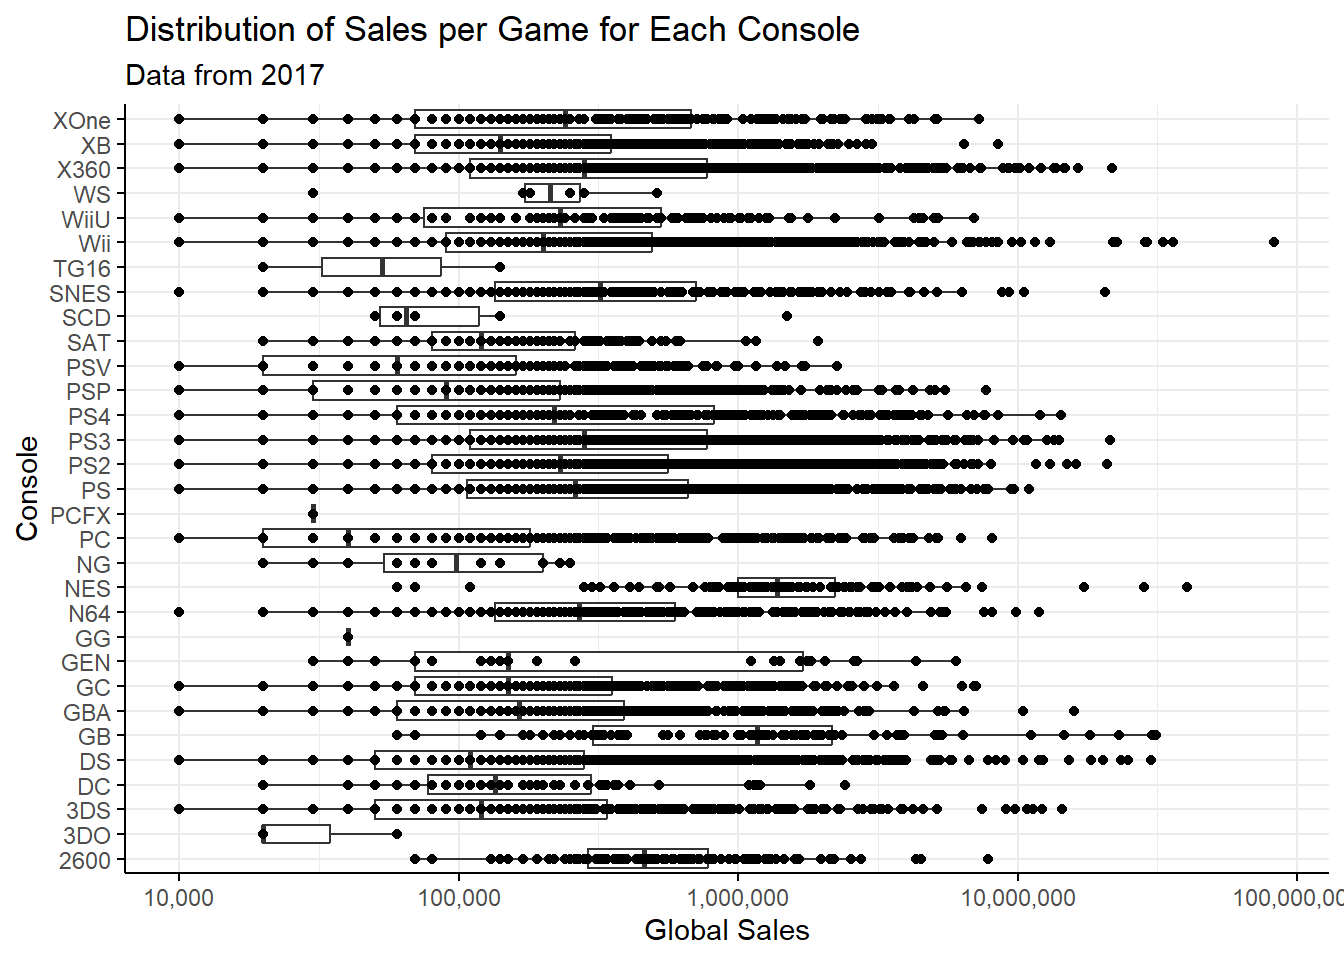
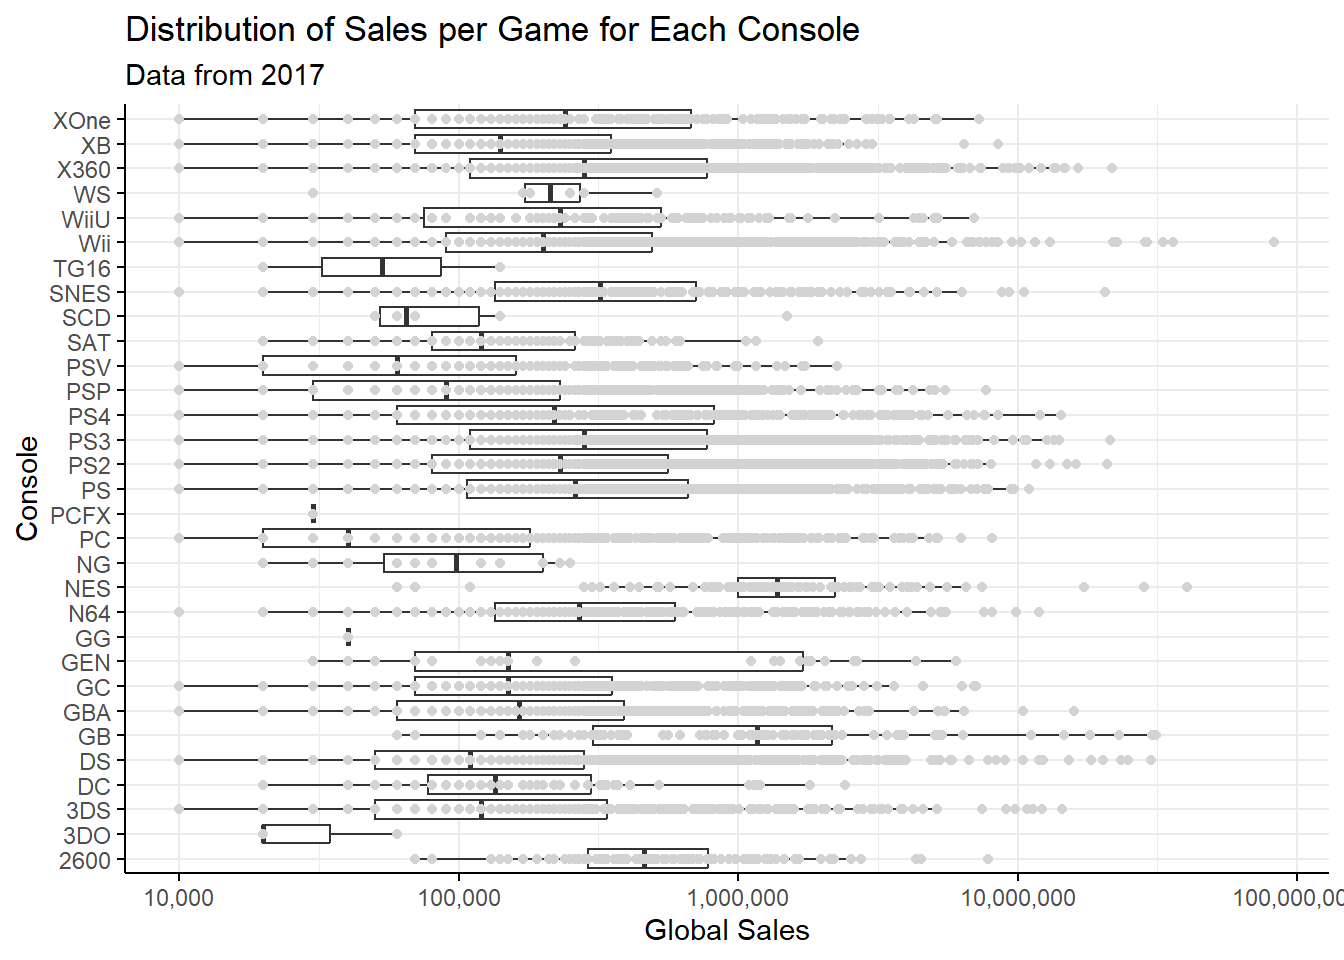
Changed based off of feedback

diff --git a/videogameconsole.html b/videogameconsole.html
@@ -121,7 +121,7 @@ pre > code.sourceCode > span > a:first-child::before { text-decoration: underlin
 <span id="cb2-10"><a href="#cb2-10" aria-hidden="true" tabindex="-1"></a>            <span class="at">hjust =</span> <span class="sc">-</span><span class="fl">0.025</span>,</span>
 <span id="cb2-11"><a href="#cb2-11" aria-hidden="true" tabindex="-1"></a>            <span class="at">size =</span> <span class="dv">3</span>) <span class="sc">+</span></span>
 <span id="cb2-12"><a href="#cb2-12" aria-hidden="true" tabindex="-1"></a>  <span class="fu">labs</span>(</span>
-<span id="cb2-13"><a href="#cb2-13" aria-hidden="true" tabindex="-1"></a>    <span class="at">title =</span> <span class="st">"Best Selling Consoles"</span></span>
+<span id="cb2-13"><a href="#cb2-13" aria-hidden="true" tabindex="-1"></a>    <span class="at">title =</span> <span class="st">"Best Selling Consoles through May 2025"</span></span>
 <span id="cb2-14"><a href="#cb2-14" aria-hidden="true" tabindex="-1"></a>  ) <span class="sc">+</span></span>
 <span id="cb2-15"><a href="#cb2-15" aria-hidden="true" tabindex="-1"></a>  <span class="fu">theme_minimal</span>() <span class="sc">+</span></span>
 <span id="cb2-16"><a href="#cb2-16" aria-hidden="true" tabindex="-1"></a>  <span class="fu">theme</span>(</span>
@@ -140,7 +140,7 @@ pre > code.sourceCode > span > a:first-child::before { text-decoration: underlin
 </div>
 </div>
 </div>
-<p>As you can see, this is graph is showing the best 25 selling consoles of all time. I believe that this is a good cut of because both the last two consoles the Playstation Vita, and the Nintendo Wii U were considered massive failures by those two companies. As you can see, the Playstation 2 is the best selling console of all time selling 160.01 million units. With the Nintendo DS in second place at 154.02 million units and the Nintendo Switch in third place at 150.86 million units which is still currently being sold even though the Nintendo Switch 2 just came out. Now, if this was based on just consoles sold the best console would be the Playstation 2 but there are a couple other factors to this.</p>
+<p>As you can see, this is graph is showing the best 25 selling consoles of all time. I believe that this is a good cut off because both the last two consoles the Playstation Vita, and the Nintendo Wii U were considered massive failures by those two companies. As you can see, the Playstation 2 is the best selling console of all time selling 160.01 million units. With the Nintendo DS in second place at 154.02 million units and the Nintendo Switch in third place at 150.86 million units which is still currently being sold even though the Nintendo Switch 2 just came out. Now, if this was based on just consoles sold the best console would be the Playstation 2 but there are a couple other factors to this.</p>
 </section>
 <section id="software-sales" class="level1">
 <h1>Software Sales</h1>
@@ -154,7 +154,7 @@ pre > code.sourceCode > span > a:first-child::before { text-decoration: underlin
 <span id="cb3-3"><a href="#cb3-3" aria-hidden="true" tabindex="-1"></a>softwaresales <span class="sc">%&gt;%</span> </span>
 <span id="cb3-4"><a href="#cb3-4" aria-hidden="true" tabindex="-1"></a>  <span class="fu">ggplot</span>(<span class="fu">aes</span>(<span class="at">x =</span> Global_Sales, <span class="at">y =</span> Platform)) <span class="sc">+</span></span>
 <span id="cb3-5"><a href="#cb3-5" aria-hidden="true" tabindex="-1"></a>  <span class="fu">geom_boxplot</span>() <span class="sc">+</span></span>
-<span id="cb3-6"><a href="#cb3-6" aria-hidden="true" tabindex="-1"></a>  <span class="fu">geom_point</span>() <span class="sc">+</span></span>
+<span id="cb3-6"><a href="#cb3-6" aria-hidden="true" tabindex="-1"></a>  <span class="fu">geom_point</span>(<span class="at">color =</span> <span class="st">"lightgray"</span>) <span class="sc">+</span></span>
 <span id="cb3-7"><a href="#cb3-7" aria-hidden="true" tabindex="-1"></a>  <span class="fu">scale_x_log10</span>(<span class="at">breaks=</span><span class="fu">c</span>(<span class="fl">1e-02</span>, <span class="fl">1e-01</span>, <span class="fl">1e+00</span>, <span class="fl">1e+01</span>, <span class="fl">1e+02</span>), <span class="at">labels =</span> <span class="fu">c</span>(<span class="st">"10,000"</span>, <span class="st">"100,000"</span>, <span class="st">"1,000,000"</span>, <span class="st">"10,000,000"</span>, <span class="st">"100,000,000"</span>)) <span class="sc">+</span></span>
 <span id="cb3-8"><a href="#cb3-8" aria-hidden="true" tabindex="-1"></a>  <span class="fu">theme_minimal</span>() <span class="sc">+</span></span>
 <span id="cb3-9"><a href="#cb3-9" aria-hidden="true" tabindex="-1"></a>  <span class="fu">theme</span>(</span>
@@ -209,7 +209,7 @@ pre > code.sourceCode > span > a:first-child::before { text-decoration: underlin
 <span id="cb4-26"><a href="#cb4-26" aria-hidden="true" tabindex="-1"></a>  <span class="fu">scale_color_manual</span>(<span class="at">values =</span> <span class="fu">c</span>(<span class="st">"#006FCD"</span>, <span class="st">"#E60012"</span>)) <span class="sc">+</span></span>
 <span id="cb4-27"><a href="#cb4-27" aria-hidden="true" tabindex="-1"></a>  <span class="fu">labs</span>(</span>
 <span id="cb4-28"><a href="#cb4-28" aria-hidden="true" tabindex="-1"></a>    <span class="at">x =</span> <span class="st">"Fiscal Year"</span>,</span>
-<span id="cb4-29"><a href="#cb4-29" aria-hidden="true" tabindex="-1"></a>    <span class="at">y =</span> <span class="st">"Sales in millions"</span>,</span>
+<span id="cb4-29"><a href="#cb4-29" aria-hidden="true" tabindex="-1"></a>    <span class="at">y =</span> <span class="st">"Sales in millions of copies"</span>,</span>
 <span id="cb4-30"><a href="#cb4-30" aria-hidden="true" tabindex="-1"></a>    <span class="at">title =</span> <span class="st">"Switch and Playstation (PS4 and PS5) Software Sales for Each Fiscal Year"</span></span>
 <span id="cb4-31"><a href="#cb4-31" aria-hidden="true" tabindex="-1"></a>  ) <span class="sc">+</span></span>
 <span id="cb4-32"><a href="#cb4-32" aria-hidden="true" tabindex="-1"></a>  <span class="fu">theme_minimal</span>()</span></code><button title="Copy to Clipboard" class="code-copy-button"><i class="bi"></i></button></pre></div>
@@ -318,15 +318,16 @@ pre > code.sourceCode > span > a:first-child::before { text-decoration: underlin
 <span id="cb6-53"><a href="#cb6-53" aria-hidden="true" tabindex="-1"></a>            <span class="at">hjust =</span> <span class="dv">0</span>,</span>
 <span id="cb6-54"><a href="#cb6-54" aria-hidden="true" tabindex="-1"></a>            <span class="at">size =</span> <span class="dv">4</span>) <span class="sc">+</span></span>
 <span id="cb6-55"><a href="#cb6-55" aria-hidden="true" tabindex="-1"></a>  <span class="fu">labs</span>(</span>
-<span id="cb6-56"><a href="#cb6-56" aria-hidden="true" tabindex="-1"></a>    <span class="at">title =</span> <span class="st">"Number of Top 20 Rated on Metacritic Games For Each Console"</span></span>
-<span id="cb6-57"><a href="#cb6-57" aria-hidden="true" tabindex="-1"></a>  ) <span class="sc">+</span></span>
-<span id="cb6-58"><a href="#cb6-58" aria-hidden="true" tabindex="-1"></a>  <span class="fu">theme_minimal</span>() <span class="sc">+</span></span>
-<span id="cb6-59"><a href="#cb6-59" aria-hidden="true" tabindex="-1"></a>  <span class="fu">theme</span>(</span>
-<span id="cb6-60"><a href="#cb6-60" aria-hidden="true" tabindex="-1"></a>    <span class="at">axis.title =</span> <span class="fu">element_blank</span>(),</span>
-<span id="cb6-61"><a href="#cb6-61" aria-hidden="true" tabindex="-1"></a>    <span class="at">panel.grid =</span> <span class="fu">element_blank</span>(),</span>
-<span id="cb6-62"><a href="#cb6-62" aria-hidden="true" tabindex="-1"></a>    <span class="at">axis.text.x =</span> <span class="fu">element_blank</span>(),</span>
-<span id="cb6-63"><a href="#cb6-63" aria-hidden="true" tabindex="-1"></a>    <span class="at">axis.text.y =</span> <span class="fu">element_text</span>(<span class="at">margin =</span> <span class="fu">margin</span>(<span class="at">r=</span><span class="sc">-</span><span class="fl">12.5</span>), <span class="at">hjust =</span> <span class="dv">1</span>)</span>
-<span id="cb6-64"><a href="#cb6-64" aria-hidden="true" tabindex="-1"></a>  )</span></code><button title="Copy to Clipboard" class="code-copy-button"><i class="bi"></i></button></pre></div>
+<span id="cb6-56"><a href="#cb6-56" aria-hidden="true" tabindex="-1"></a>    <span class="at">title =</span> <span class="st">"Number of Top 20 Rated on Metacritic Games For Each Console"</span>,</span>
+<span id="cb6-57"><a href="#cb6-57" aria-hidden="true" tabindex="-1"></a>    <span class="at">caption =</span> <span class="st">"Some games are cross-platform"</span></span>
+<span id="cb6-58"><a href="#cb6-58" aria-hidden="true" tabindex="-1"></a>  ) <span class="sc">+</span></span>
+<span id="cb6-59"><a href="#cb6-59" aria-hidden="true" tabindex="-1"></a>  <span class="fu">theme_minimal</span>() <span class="sc">+</span></span>
+<span id="cb6-60"><a href="#cb6-60" aria-hidden="true" tabindex="-1"></a>  <span class="fu">theme</span>(</span>
+<span id="cb6-61"><a href="#cb6-61" aria-hidden="true" tabindex="-1"></a>    <span class="at">axis.title =</span> <span class="fu">element_blank</span>(),</span>
+<span id="cb6-62"><a href="#cb6-62" aria-hidden="true" tabindex="-1"></a>    <span class="at">panel.grid =</span> <span class="fu">element_blank</span>(),</span>
+<span id="cb6-63"><a href="#cb6-63" aria-hidden="true" tabindex="-1"></a>    <span class="at">axis.text.x =</span> <span class="fu">element_blank</span>(),</span>
+<span id="cb6-64"><a href="#cb6-64" aria-hidden="true" tabindex="-1"></a>    <span class="at">axis.text.y =</span> <span class="fu">element_text</span>(<span class="at">margin =</span> <span class="fu">margin</span>(<span class="at">r=</span><span class="sc">-</span><span class="fl">12.5</span>), <span class="at">hjust =</span> <span class="dv">1</span>)</span>
+<span id="cb6-65"><a href="#cb6-65" aria-hidden="true" tabindex="-1"></a>  )</span></code><button title="Copy to Clipboard" class="code-copy-button"><i class="bi"></i></button></pre></div>
 <div class="cell-output-display">
 <div>
 <figure class="figure">

diff --git a/videogameconsole.html.md b/videogameconsole.html.md
@@ -42,7 +42,7 @@ consolesales %>%
             hjust = -0.025,
             size = 3) +
   labs(
-    title = "Best Selling Consoles"
+    title = "Best Selling Consoles through May 2025"
   ) +
   theme_minimal() +
   theme(
@@ -62,7 +62,7 @@ consolesales %>%
 
 
 
-As you can see, this is graph is showing the best 25 selling consoles of all time. I believe that this is a good cut of because both the last two consoles the Playstation Vita, and the Nintendo Wii U were considered massive failures by those two companies. As you can see, the Playstation 2 is the best selling console of all time selling 160.01 million units. With the Nintendo DS in second place at 154.02 million units and the Nintendo Switch in third place at 150.86 million units which is still currently being sold even though the Nintendo Switch 2 just came out. Now, if this was based on just consoles sold the best console would be the Playstation 2 but there are a couple other factors to this.
+As you can see, this is graph is showing the best 25 selling consoles of all time. I believe that this is a good cut off   because both the last two consoles the Playstation Vita, and the Nintendo Wii U were considered massive failures by those two companies. As you can see, the Playstation 2 is the best selling console of all time selling 160.01 million units. With the Nintendo DS in second place at 154.02 million units and the Nintendo Switch in third place at 150.86 million units which is still currently being sold even though the Nintendo Switch 2 just came out. Now, if this was based on just consoles sold the best console would be the Playstation 2 but there are a couple other factors to this.
 
 # Software Sales
 
@@ -82,7 +82,7 @@ softwaresales <- read_csv("data/vgsales.csv")
 softwaresales %>% 
   ggplot(aes(x = Global_Sales, y = Platform)) +
   geom_boxplot() +
-  geom_point() +
+  geom_point(color = "lightgray") +
   scale_x_log10(breaks=c(1e-02, 1e-01, 1e+00, 1e+01, 1e+02), labels = c("10,000", "100,000", "1,000,000", "10,000,000", "100,000,000")) +
   theme_minimal() +
   theme(
@@ -143,7 +143,7 @@ currentsoftware %>%
   scale_color_manual(values = c("#006FCD", "#E60012")) +
   labs(
     x = "Fiscal Year",
-    y = "Sales in millions",
+    y = "Sales in millions of copies",
     title = "Switch and Playstation (PS4 and PS5) Software Sales for Each Fiscal Year"
   ) +
   theme_minimal()
@@ -263,7 +263,8 @@ consoletopratedgames %>%
             hjust = 0,
             size = 4) +
   labs(
-    title = "Number of Top 20 Rated on Metacritic Games For Each Console"
+    title = "Number of Top 20 Rated on Metacritic Games For Each Console",
+    caption = "Some games are cross-platform"
   ) +
   theme_minimal() +
   theme(
